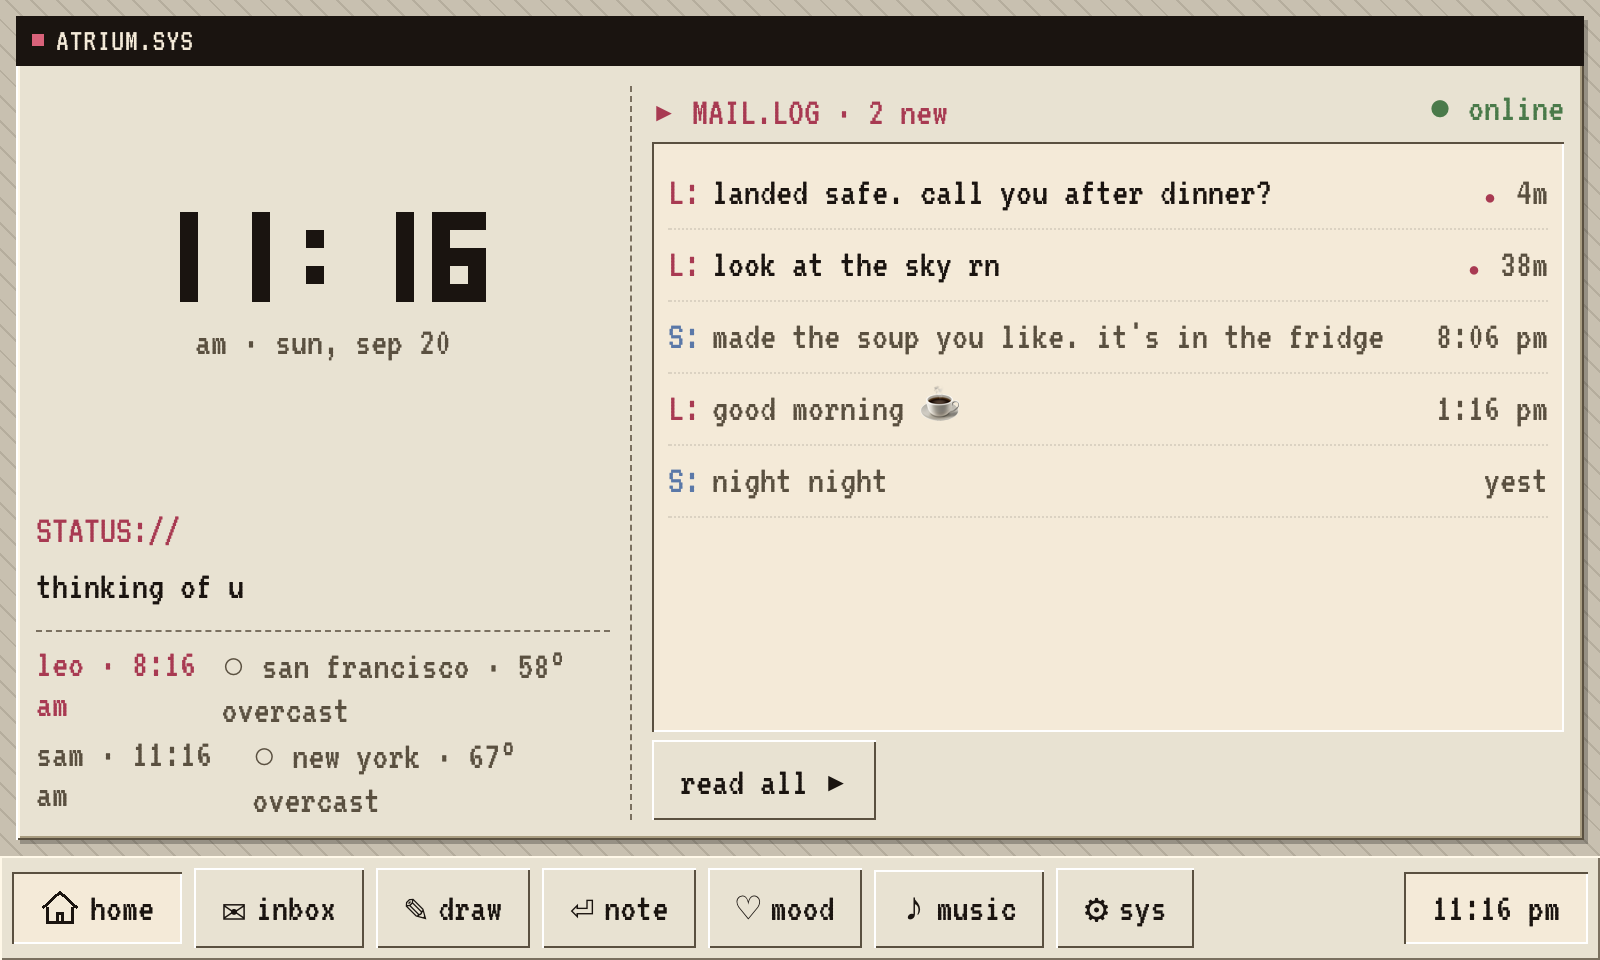
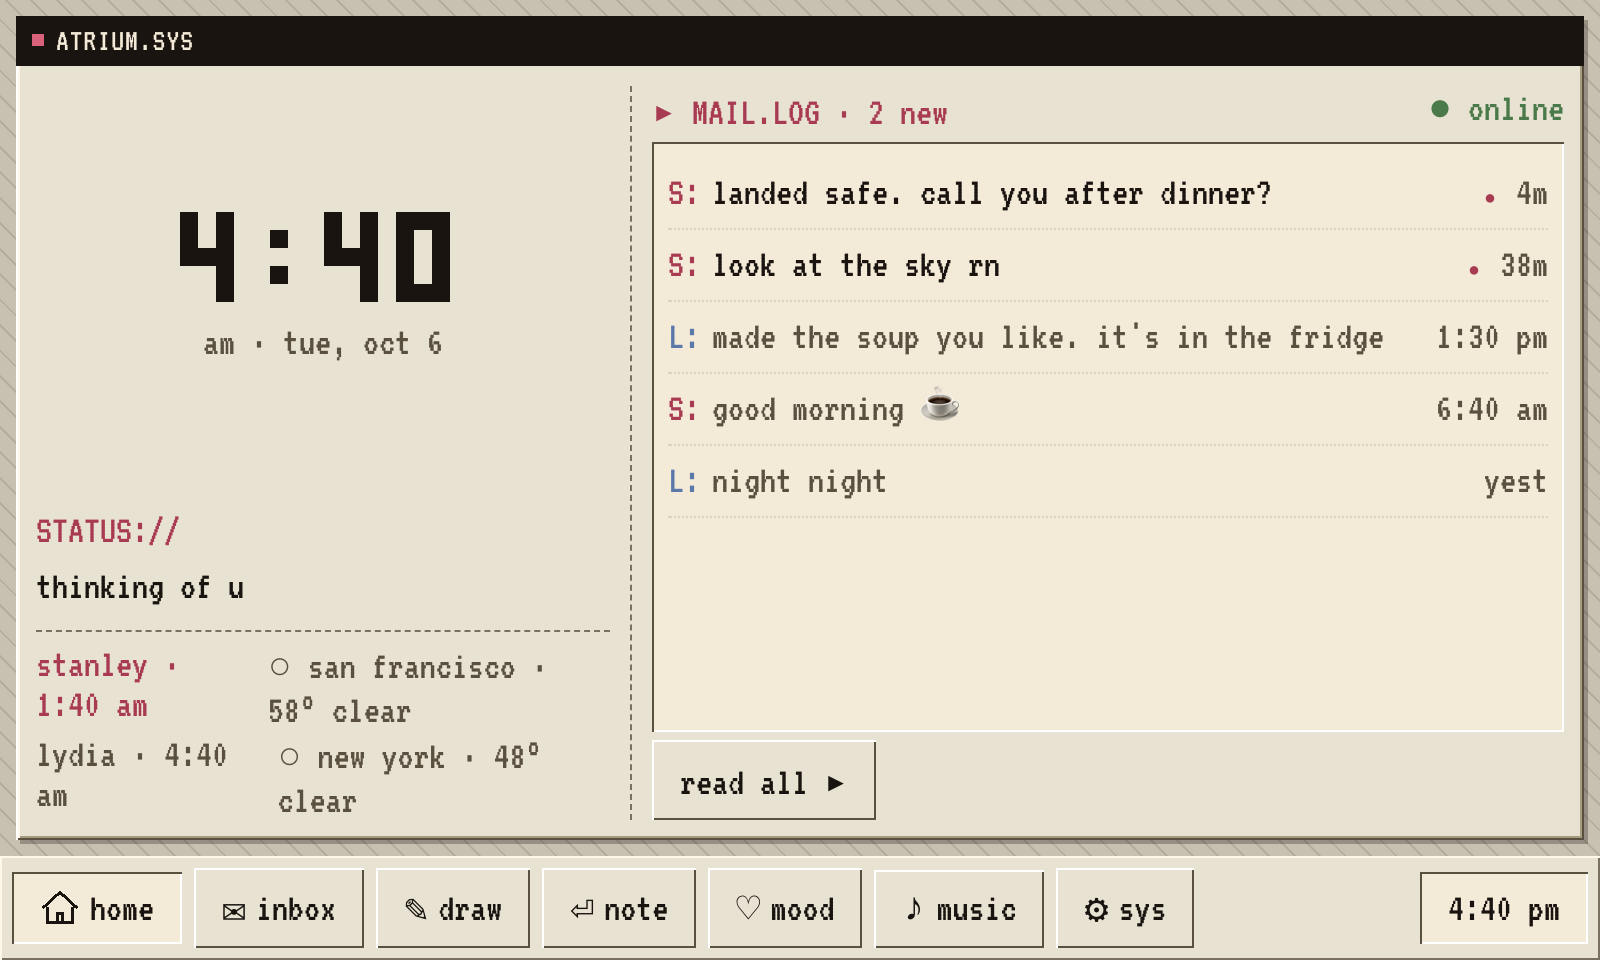
Restore real names: Stanley and Lydia
NAMES, PARTNER_NAME, the demo playback device and the RUNBOOK sign-in notes
use our names again instead of the leo/sam placeholders. The home location
stays a placeholder. Regenerate the home, inbox and music screenshots from
demo mode.

diff --git a/src/main.js b/src/main.js
@@ -104,7 +104,7 @@ const ASCII_DIGITS = {
 
 // ── People and places ──
 // Display names and the box's fixed home location. Edit for your own setup.
-const NAMES = { him: "leo", her: "sam" };
+const NAMES = { him: "stanley", her: "lydia" };
 const initial = (who) => `${NAMES[who][0].toUpperCase()}:`;
 const HOME = { lat: 40.7128, lon: -74.006, label: "new york", tz: "America/New_York" };
 const AWAY_TZ = "America/Los_Angeles";
@@ -2024,7 +2024,7 @@ function boot() {
     if (state.active === "play") render();
   });
 
-  // The away partner's location is settable via send.html; the box stays at HOME.
+  // Stanley's location is settable via send.html; Lydia's box stays at HOME.
   subscribeGeo("him", (geo) => {
     state.geo.him = geo;
     refreshWeatherFor("him");

diff --git a/send.html b/send.html
@@ -228,7 +228,7 @@
     const auth = getAuth(app);
 
     // Display name of the partner with the box. Edit for your own setup.
-    const PARTNER_NAME = 'sam';
+    const PARTNER_NAME = 'lydia';
     document.querySelectorAll('.partner-name').forEach((n) => { n.textContent = PARTNER_NAME.toUpperCase(); });
 
     function showApp() {
@@ -310,7 +310,7 @@
       });
     }
 
-    // Reflect the sender's last-set status on load so a refresh doesn't
+    // Reflect Stanley's last-set status on load so a refresh doesn't
     // make it look like the saved status was lost.
     const statusQ = query(
       collection(db, 'status'),

diff --git a/src/demo.js b/src/demo.js
@@ -28,7 +28,7 @@ let snapshots = [];
 const playback = {
   isPlaying: true,
   progressMs: 74_000,
-  device: "Leo's Laptop",
+  device: "Stanley's Laptop",
   nowPlaying: {
     name: "Pink + White",
     artist: "Frank Ocean",

diff --git a/pi/RUNBOOK.md b/pi/RUNBOOK.md
@@ -154,7 +154,7 @@ Re-running OAuth (one user at a time — port 8888 conflict):
 sudo systemctl stop lovebox-sleep
 cd ~/lovebox && source ~/.nvm/nvm.sh
 SPOTIFY_CLIENT_ID=... SPOTIFY_CLIENT_SECRET=... node pi/spotify-auth.js her
-# open http://127.0.0.1:8888/login on the Pi browser, sign in as the partner account
+# open http://127.0.0.1:8888/login on the Pi browser, sign in as Lydia
 sudo systemctl start lovebox-sleep
 sudo systemctl restart lovebox-spotify
 ```
@@ -214,7 +214,7 @@ ssh -t stanley@lovebox.local '~/lovebox/pi/kiosk-dev.sh http://192.168.1.42:3000
 The script stops `lovebox-kiosk`, launches Chromium pointed at your Mac, and **on Ctrl+C restores the normal kiosk service**. Vite HMR pushes changes straight to the Pi screen on save.
 
 Caveats:
-- Your Mac's `.env` decides which user is signed in (set the other account's creds to test as her).
+- Your Mac's `.env` decides which user is signed in (set Lydia's creds to test as her).
 - Wi-Fi panel will show "wi-fi unavailable" — the kiosk is now hitting your Mac's port 8888, where nothing is listening. Expected.
 - macOS may prompt to allow incoming connections for Node — say yes.
 
